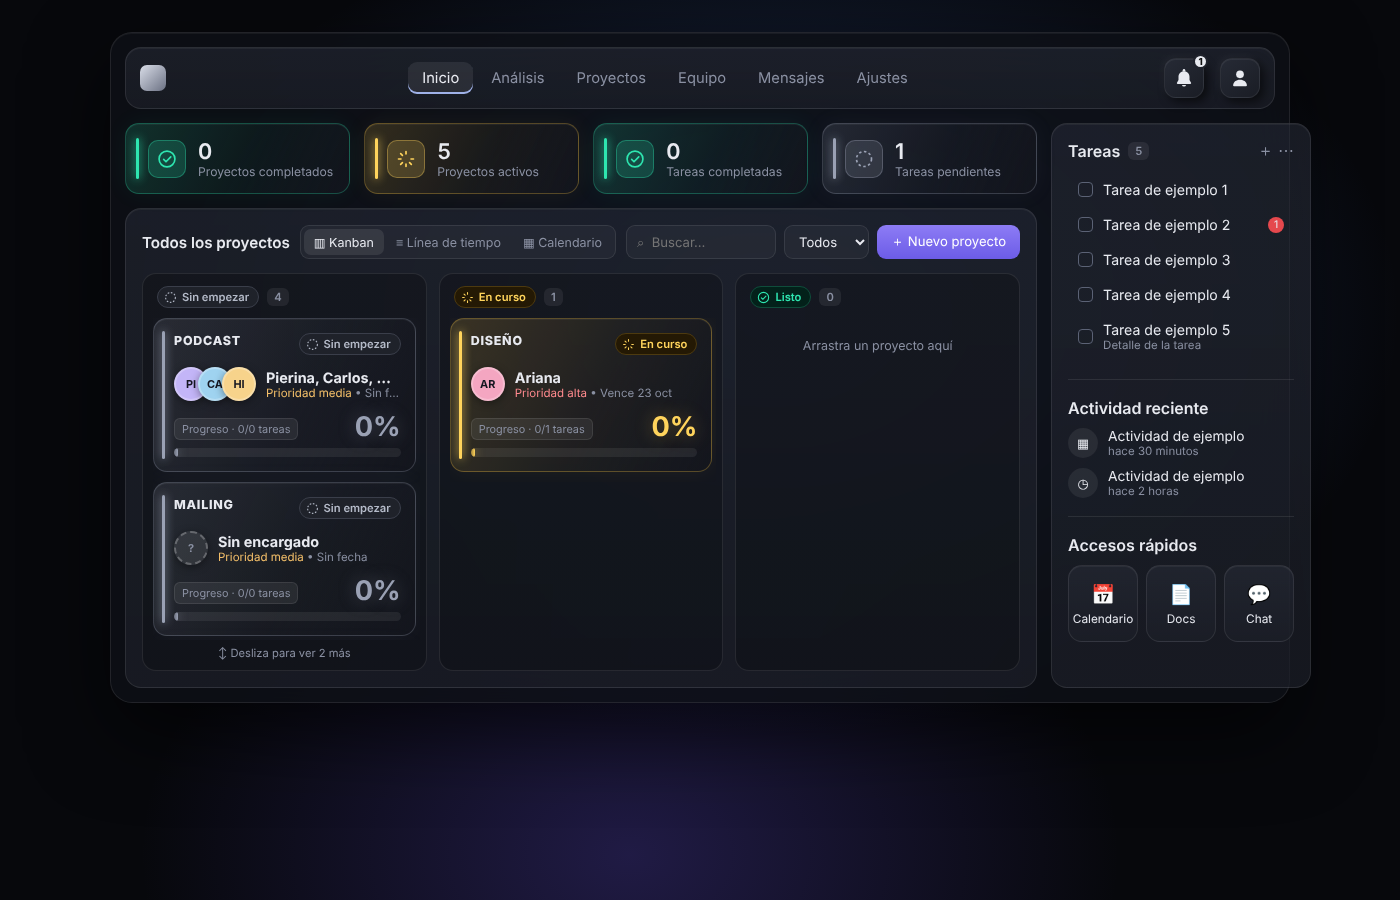
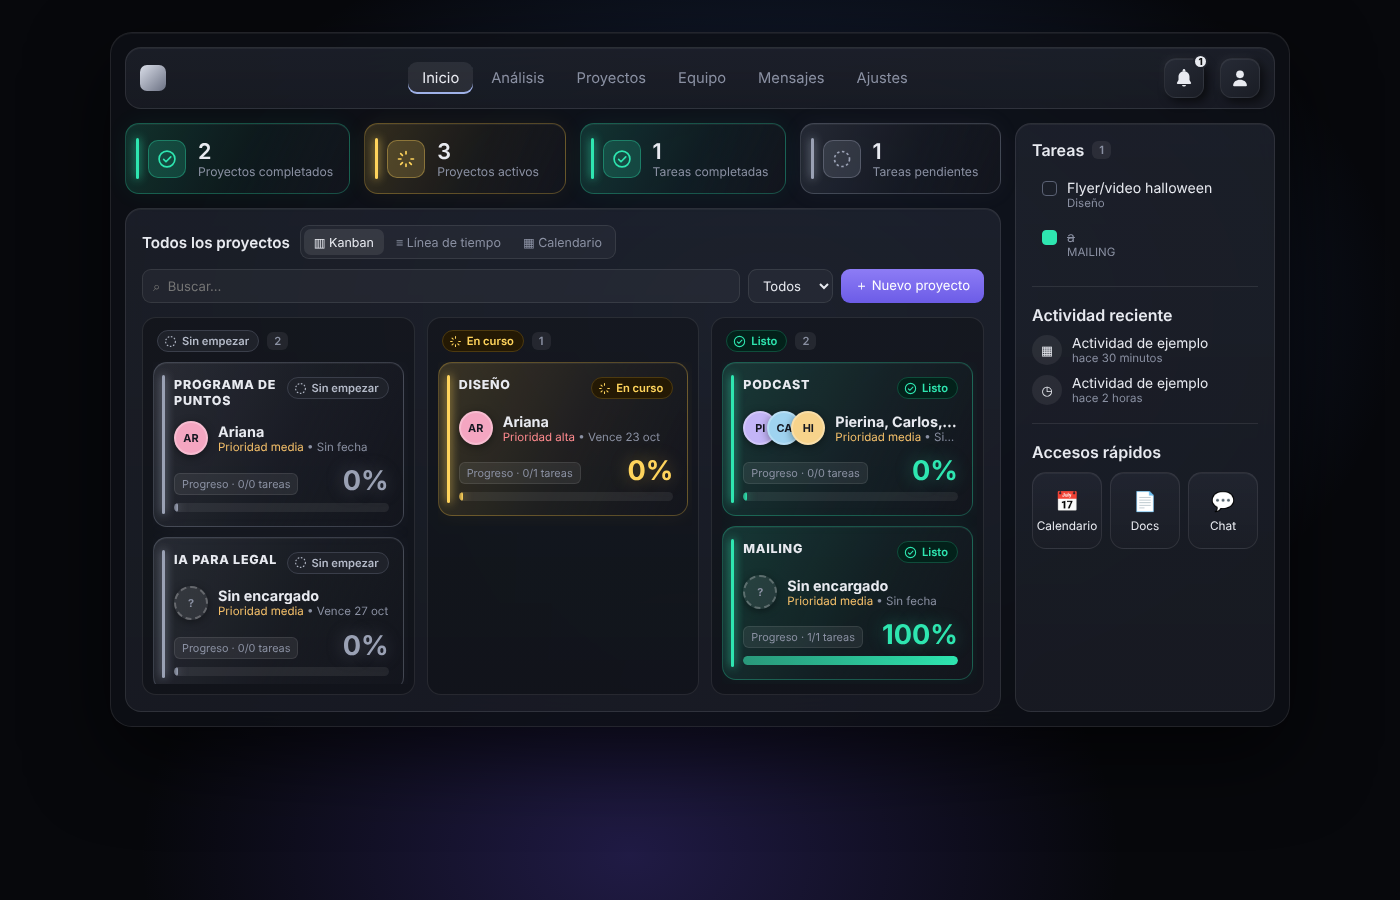
Panel: columna de tareas con las tareas reales (copia) y copia de proyectos actualizada
Claude-Session: https://claude.ai/code/session_01L8QtHgV8HSYntBJ1ppQiSV

diff --git a/borradores/panel.html b/borradores/panel.html
@@ -193,7 +193,7 @@
   .buscar { width: 150px !important; padding-top: 0 !important; padding-bottom: 0 !important; }
   .filtro { padding-top: 0 !important; padding-bottom: 0 !important; }
   .nuevo-btn { white-space: nowrap; display: flex; align-items: center; padding-top: 0 !important; padding-bottom: 0 !important; }
-  @media (max-width: 1250px) {
+  @media (max-width: 1500px) {
     .tablero-barra { flex-wrap: wrap !important; }
     .acciones { width: 100%; margin-left: 0 !important; }
     .buscar { flex: 1; width: auto !important; min-width: 0; }
@@ -224,6 +224,12 @@
   .cal-vacio { display: flex; flex-direction: column; align-items: center; gap: 8px; color: var(--tenue); font-size: .82rem; text-align: center; padding: 30px 0; }
   .cal-vacio svg { width: 40px; height: 40px; color: rgba(159,178,232,.5); }
   @media (max-width: 1000px) { .cal-layout { grid-template-columns: 1fr; } }
+  .principal { min-width: 0; }
+  #listaTareas .item { cursor: pointer; align-items: flex-start; }
+  #listaTareas .item .caja { margin-top: 2px; }
+  #listaTareas .item.hecha .caja { background: #2ee6b0; border-color: #2ee6b0; }
+  #listaTareas .item.hecha .t-texto { text-decoration: line-through; color: var(--tenue); }
+  #listaTareas { max-height: 260px; overflow-y: auto; scrollbar-width: thin; scrollbar-color: rgba(255,255,255,.18) transparent; }
   .mas { font-size: .7rem; color: var(--tenue); text-align: center; padding-top: 6px; }
   /* Línea de tiempo */
   .lt { border: 1px solid var(--borde); border-radius: 14px; background: rgba(0,0,0,.22); overflow-x: auto; }
@@ -306,12 +312,8 @@
     <!-- Columna lateral -->
     <aside class="lateral vidrio">
       <div>
-        <div class="tit"><h3 style="color:var(--texto)">Tareas <span class="chip">5</span></h3><span>＋ ⋯</span></div>
-        <div class="item"><div class="caja"></div>Tarea de ejemplo 1</div>
-        <div class="item"><div class="caja"></div>Tarea de ejemplo 2<div class="punto-rojo">1</div></div>
-        <div class="item"><div class="caja"></div>Tarea de ejemplo 3</div>
-        <div class="item"><div class="caja"></div>Tarea de ejemplo 4</div>
-        <div class="item"><div class="caja"></div><div>Tarea de ejemplo 5<span class="sub">Detalle de la tarea</span></div></div>
+        <div class="tit"><h3 style="color:var(--texto)">Tareas <span class="chip" id="nTareas">0</span></h3></div>
+        <div id="listaTareas"></div>
       </div>
       <hr />
       <div>
@@ -349,15 +351,32 @@
   const HOY = new Date().toISOString().slice(0, 10);
   const COLORES = { Ariana: "#f4a6c1", Carlos: "#9fd3f0", Pierina: "#c3b5f7", Hilary: "#f7d38b" };
   const mapaP = new Map(), mapaT = new Map();
-  const COPIA_PROYECTOS = [{"id": 1, "nombre": "PODCAST", "estado": "sin_empezar", "prioridad": "media", "encargados": ["Pierina", "Carlos", "Hilary"], "fecha_limite": null, "created_at": "2026-10-06T16:27:47.588971+00:00"}, {"id": 2, "nombre": "MAILING", "estado": "sin_empezar", "prioridad": "media", "encargados": [], "fecha_limite": null, "created_at": "2026-10-06T16:27:55.618877+00:00"}, {"id": 3, "nombre": "programa de puntos", "estado": "sin_empezar", "prioridad": "media", "encargados": ["Ariana"], "fecha_limite": null, "created_at": "2026-10-06T16:29:11.698363+00:00"}, {"id": 4, "nombre": "Diseño", "estado": "en_curso", "prioridad": "alta", "encargados": ["Ariana"], "fecha_limite": "2026-10-23", "created_at": "2026-10-06T16:29:28.305491+00:00"}, {"id": 5, "nombre": "ia para legal", "estado": "sin_empezar", "prioridad": "media", "encargados": [], "fecha_limite": "2026-10-27", "created_at": "2026-10-06T16:31:29.879376+00:00"}];
-  const COPIA_TAREAS = [{"id": 1, "proyecto_id": 4, "texto": "Flyer/video halloween", "hecha": false, "created_at": "2026-10-06T16:29:45.326742+00:00"}];
+  const COPIA_PROYECTOS = [{"id": 1, "nombre": "PODCAST", "estado": "listo", "prioridad": "media", "encargados": ["Pierina", "Carlos", "Hilary"], "fecha_limite": null, "created_at": "2026-10-06T16:27:47.588971+00:00"}, {"id": 2, "nombre": "MAILING", "estado": "listo", "prioridad": "media", "encargados": [], "fecha_limite": null, "created_at": "2026-10-06T16:27:55.618877+00:00"}, {"id": 3, "nombre": "programa de puntos", "estado": "sin_empezar", "prioridad": "media", "encargados": ["Ariana"], "fecha_limite": null, "created_at": "2026-10-06T16:29:11.698363+00:00"}, {"id": 4, "nombre": "Diseño", "estado": "en_curso", "prioridad": "alta", "encargados": ["Ariana"], "fecha_limite": "2026-10-23", "created_at": "2026-10-06T16:29:28.305491+00:00"}, {"id": 5, "nombre": "ia para legal", "estado": "sin_empezar", "prioridad": "media", "encargados": [], "fecha_limite": "2026-10-27", "created_at": "2026-10-06T16:31:29.879376+00:00"}];
+  const COPIA_TAREAS = [{"id": 1, "proyecto_id": 4, "texto": "Flyer/video halloween", "hecha": false, "created_at": "2026-10-06T16:29:45.326742+00:00"}, {"id": 5, "proyecto_id": 2, "texto": "a", "hecha": true, "created_at": "2026-10-06T19:07:02.691042+00:00"}];
   COPIA_PROYECTOS.forEach((x) => mapaP.set(x.id, x));
   COPIA_TAREAS.forEach((x) => mapaT.set(x.id, x));
   let proyectos = [];
   const esc = (t) => String(t).replace(/[&<>"']/g, (c) => ({ "&": "&amp;", "<": "&lt;", ">": "&gt;", '"': "&quot;", "'": "&#39;" }[c]));
 
   // Junta proyectos con el conteo de sus tareas
+  // Lista de tareas de la columna derecha (pendientes primero)
+  function pintarTareas() {
+    const cont = document.getElementById("listaTareas");
+    const lista = [...mapaT.values()].sort((a, b) => a.hecha - b.hecha || a.created_at.localeCompare(b.created_at));
+    nTareas.textContent = lista.filter((t) => !t.hecha).length;
+    cont.innerHTML = lista.length ? "" : `<div class="vacia">No hay tareas todavía</div>`;
+    for (const t of lista) {
+      const pr = mapaP.get(t.proyecto_id);
+      const it = document.createElement("div");
+      it.className = "item" + (t.hecha ? " hecha" : "");
+      it.innerHTML = `<div class="caja"></div><div><span class="t-texto">${esc(t.texto)}</span><span class="sub">${pr ? esc(pr.nombre) : ""}</span></div>`;
+      it.onclick = () => { t.hecha = !t.hecha; armar(); }; // solo en esta vista previa
+      cont.append(it);
+    }
+  }
+
   function armar() {
+    pintarTareas();
     const tareas = [...mapaT.values()];
     proyectos = [...mapaP.values()].sort((a, b) => a.created_at.localeCompare(b.created_at)).map((p) => {
       const suyas = tareas.filter((t) => t.proyecto_id === p.id);
